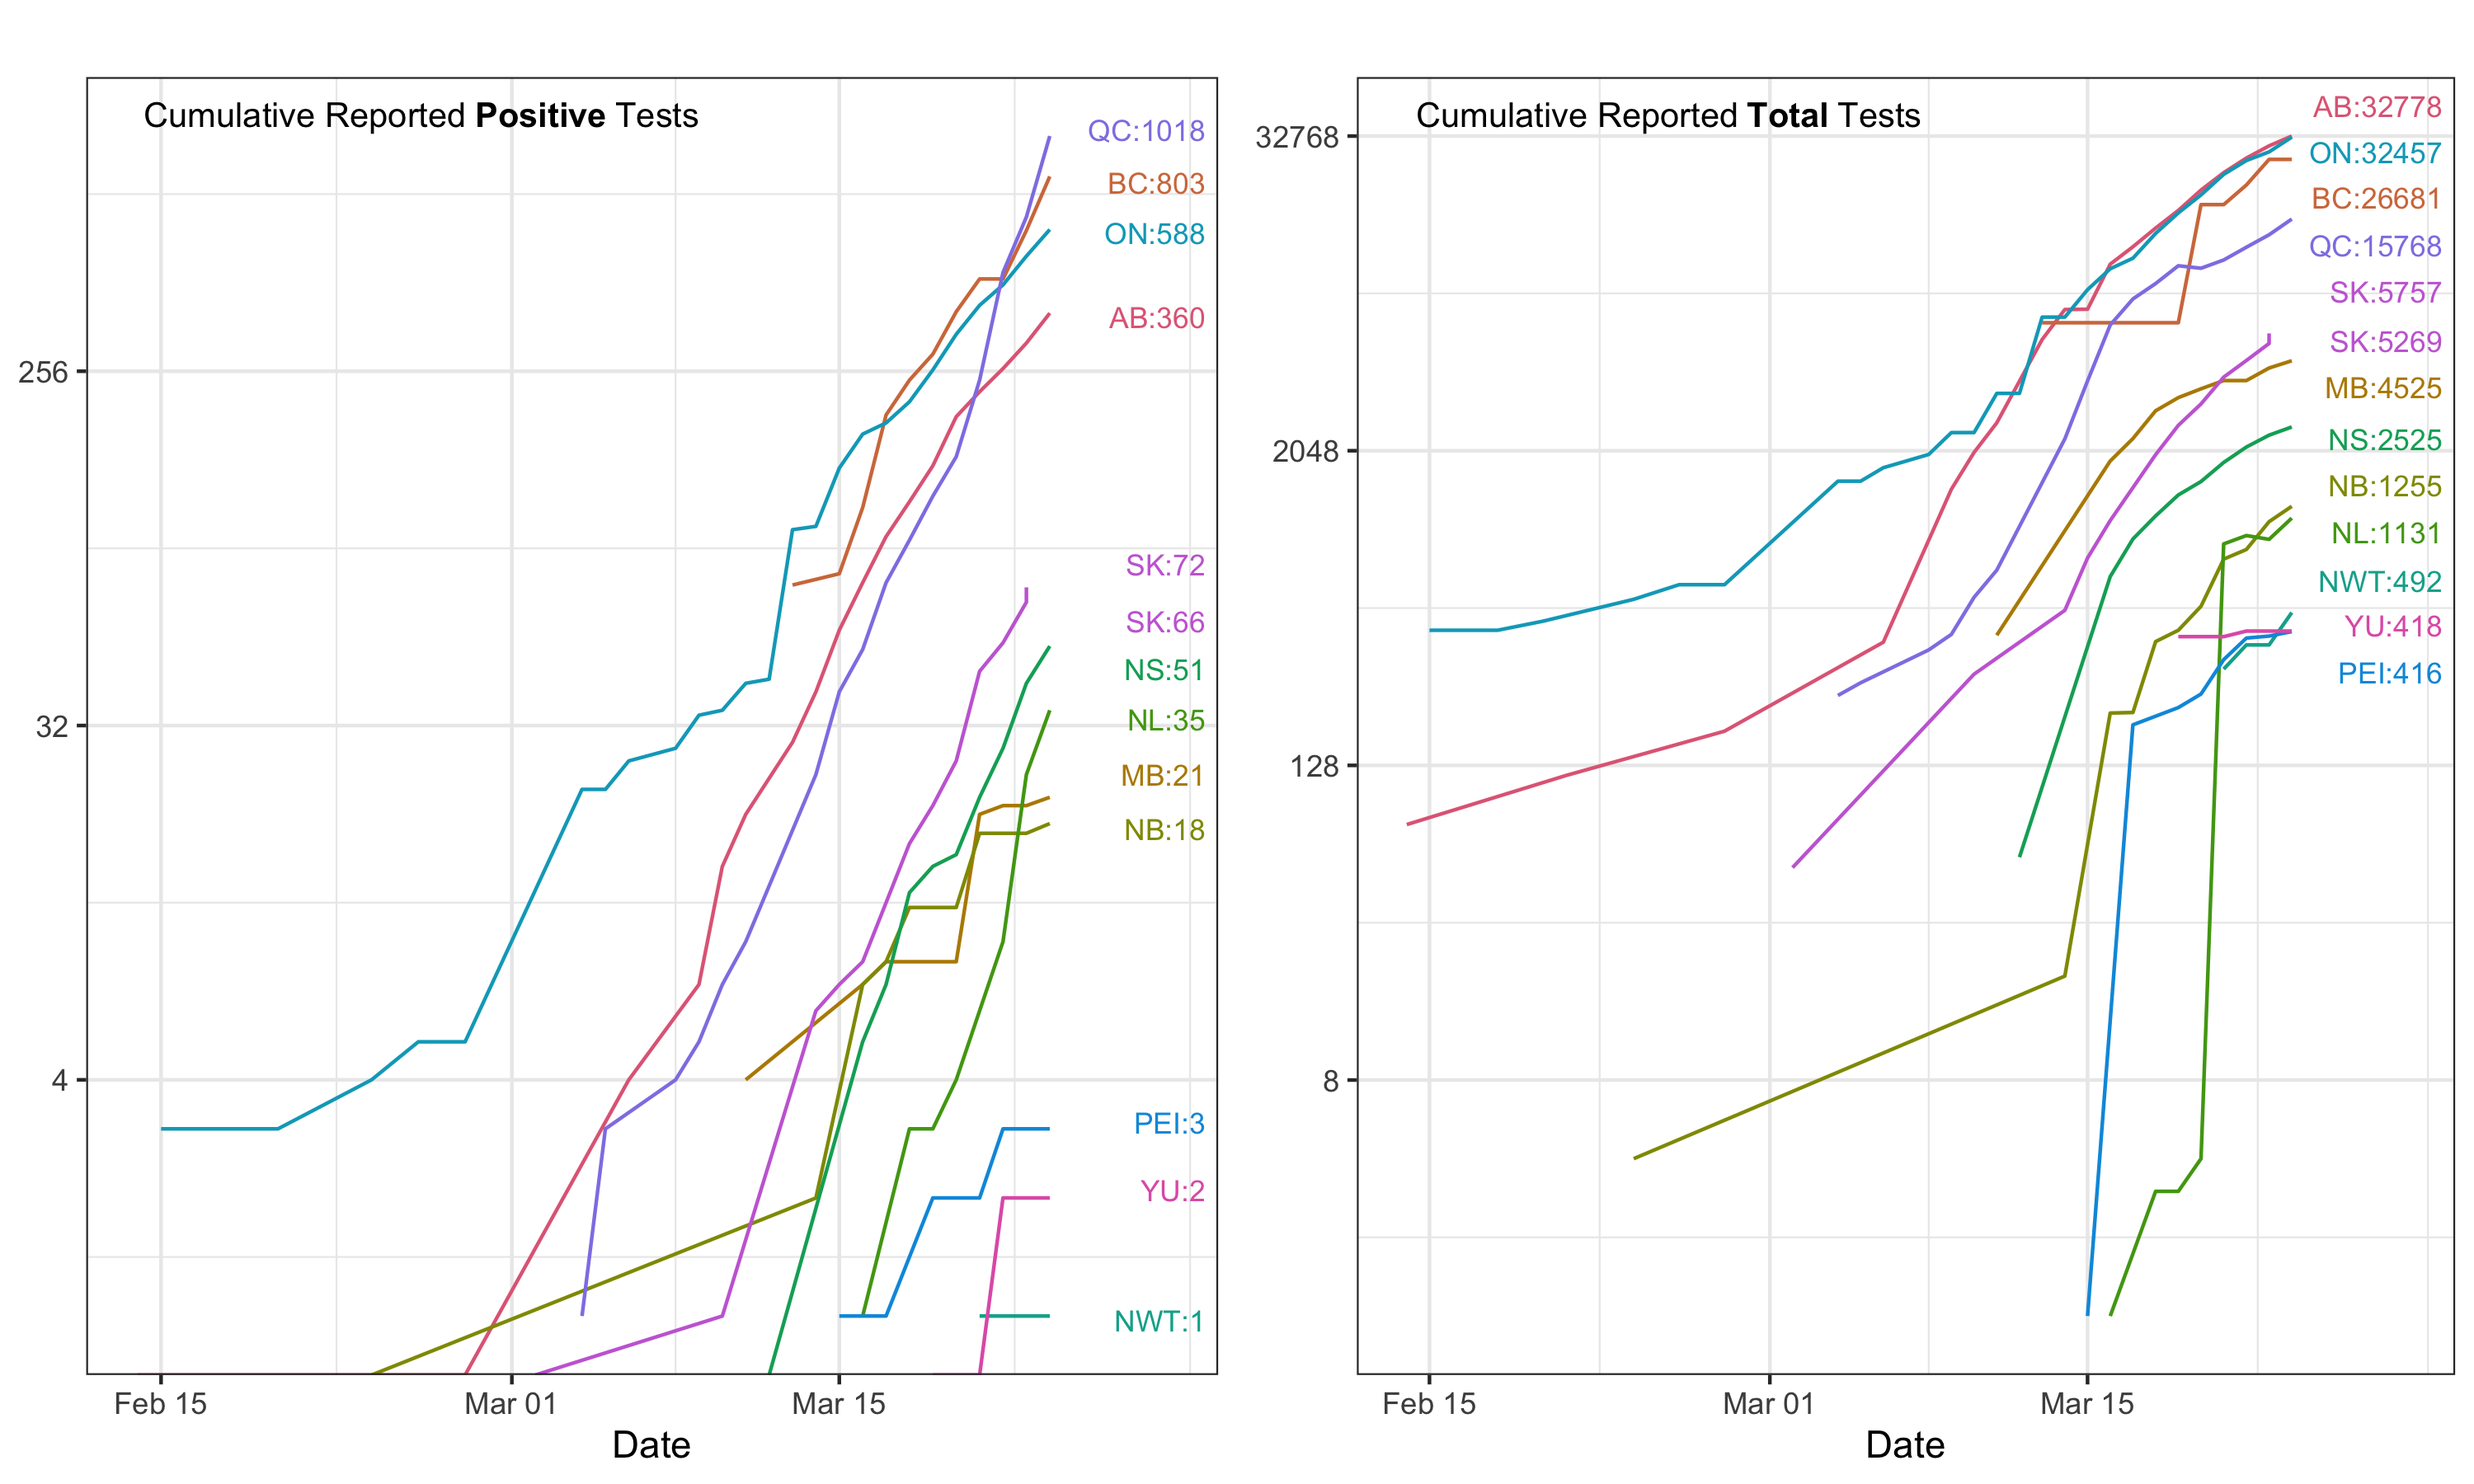
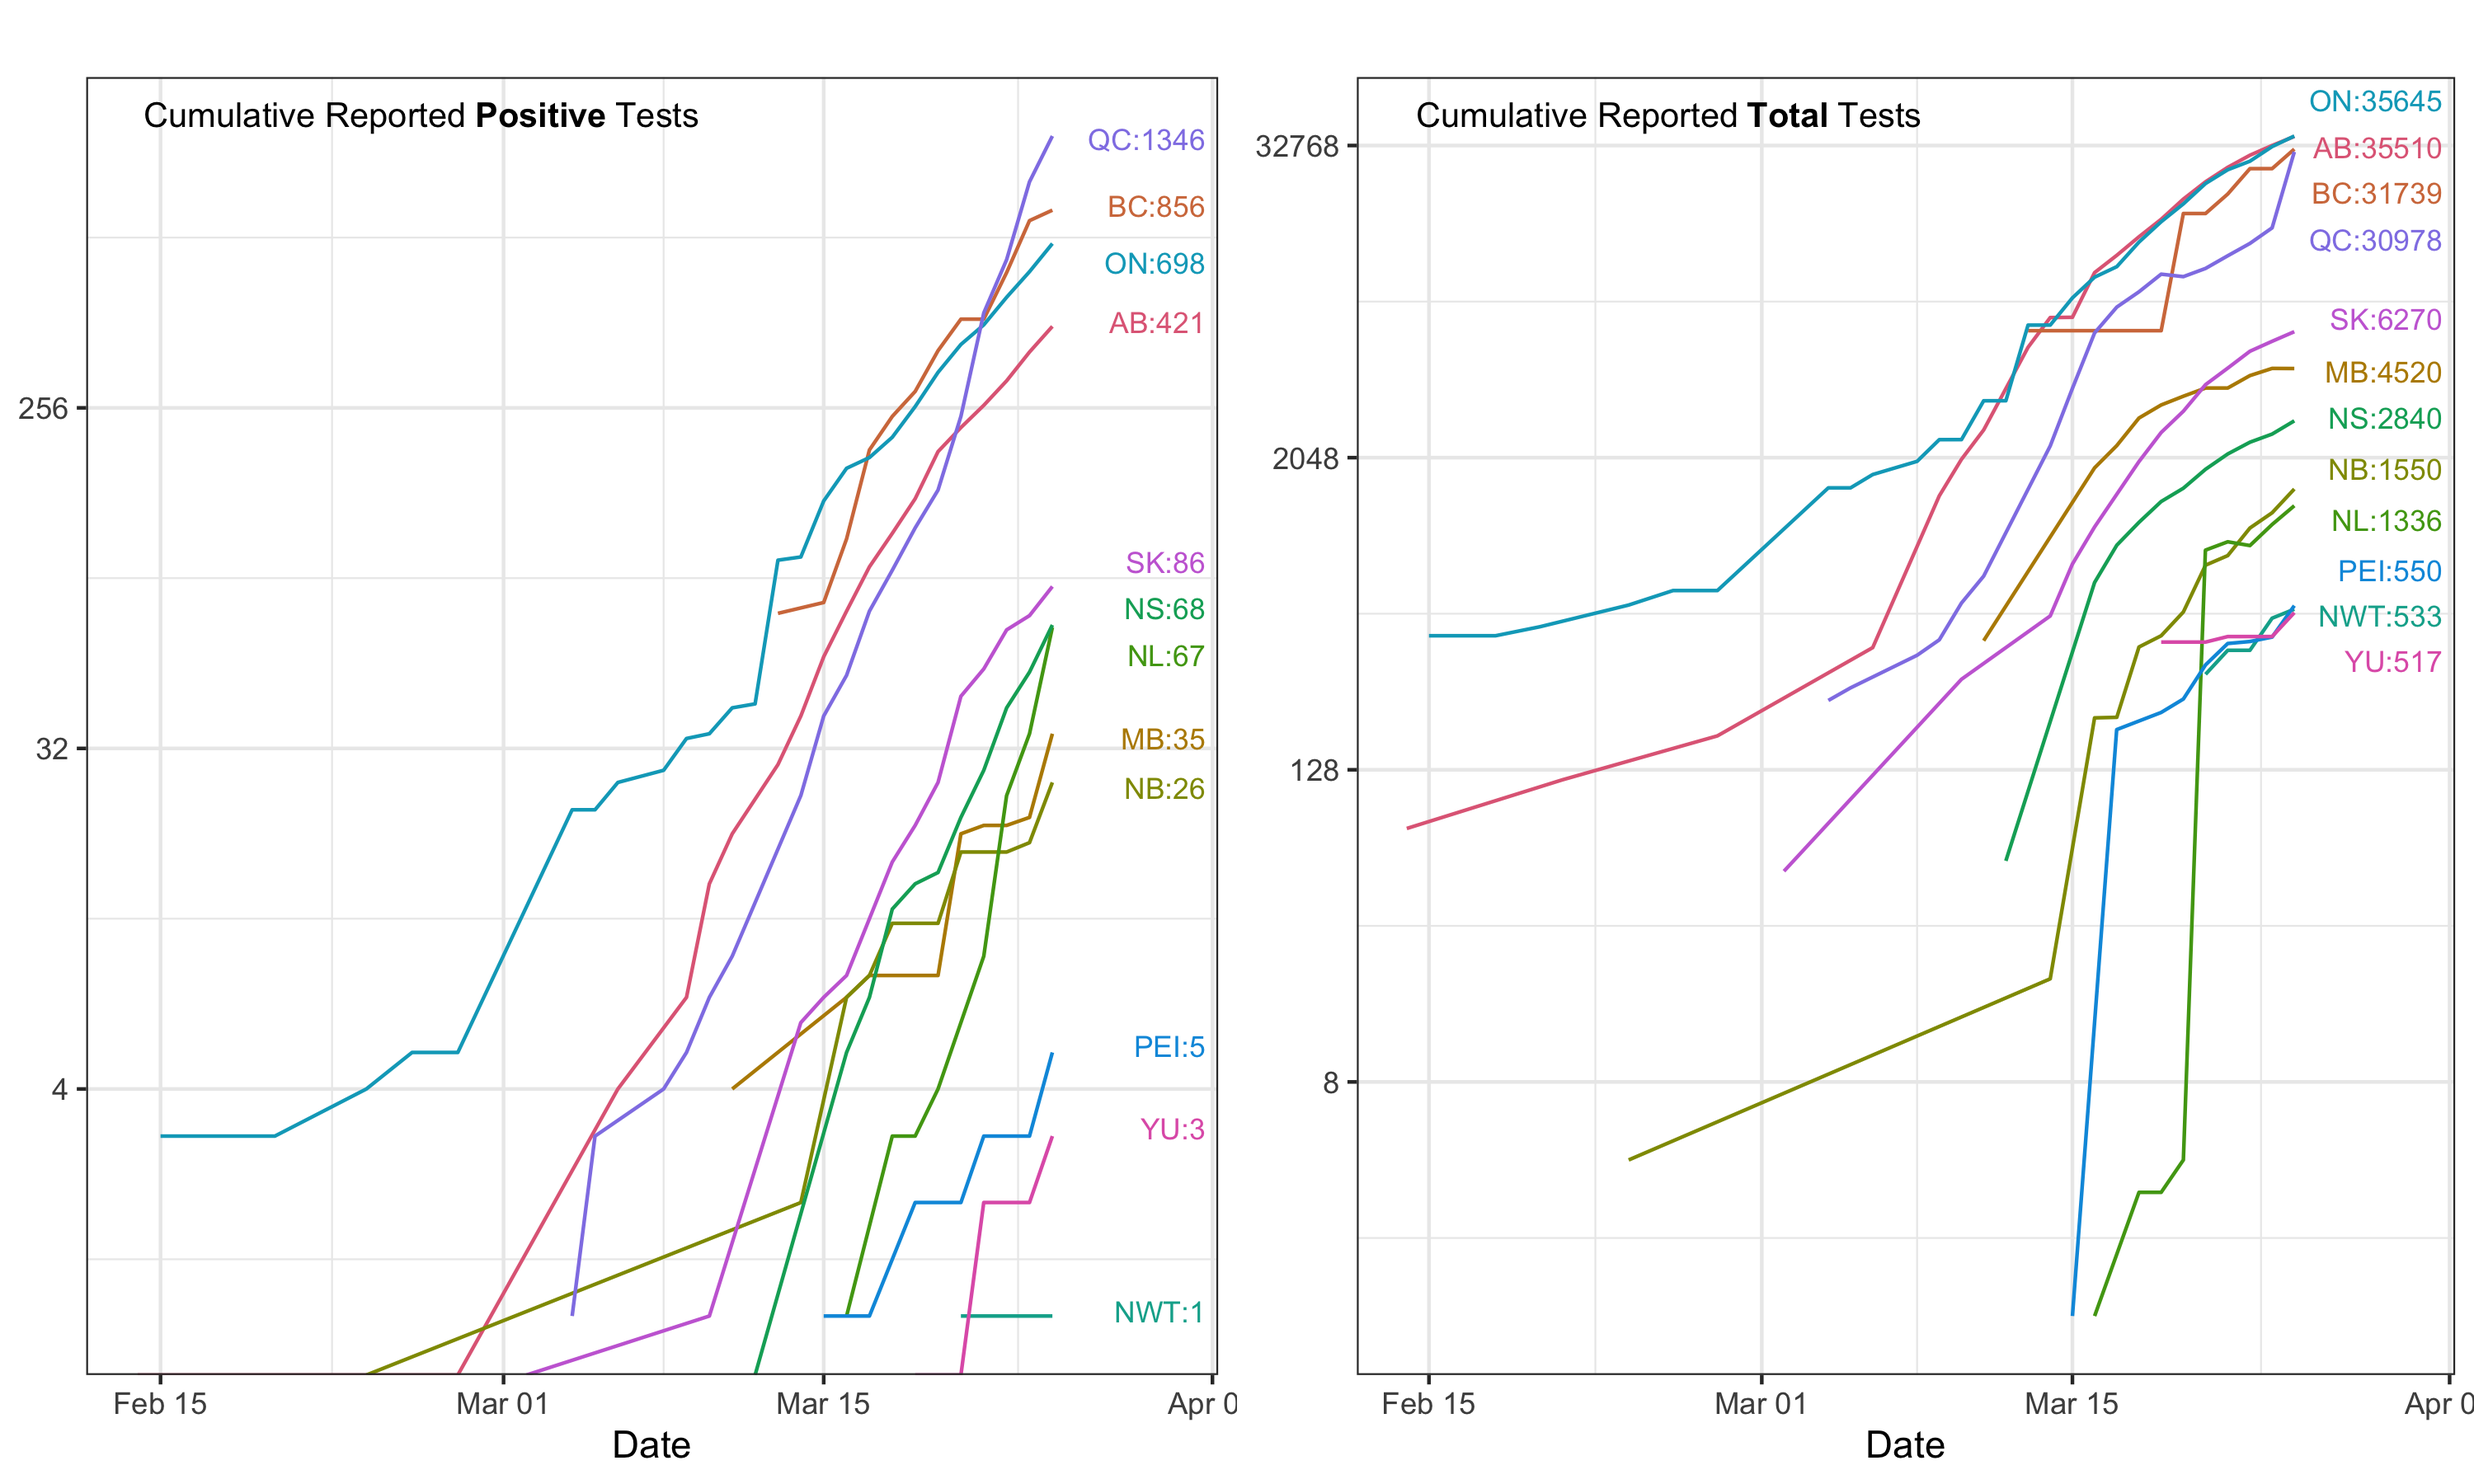
March 25th update

diff --git a/README.md b/README.md
@@ -1,6 +1,6 @@
 This is a public open-resource page for the COVID19 testing data for Canada. 
 
-_last updated: March 24th 22:42 Toronto time_
+_last updated: March 26th 03:05 Toronto time_
 
 ## COVID19 Testing Data
 
